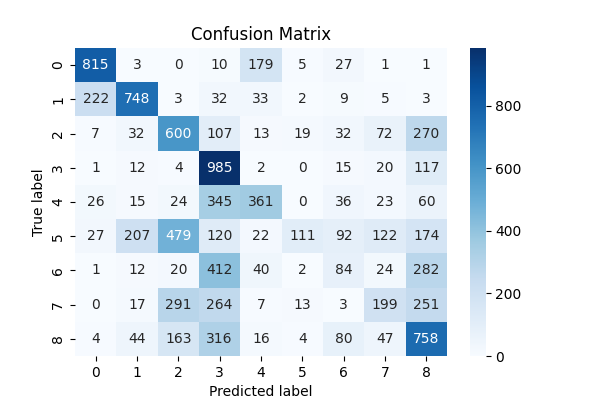
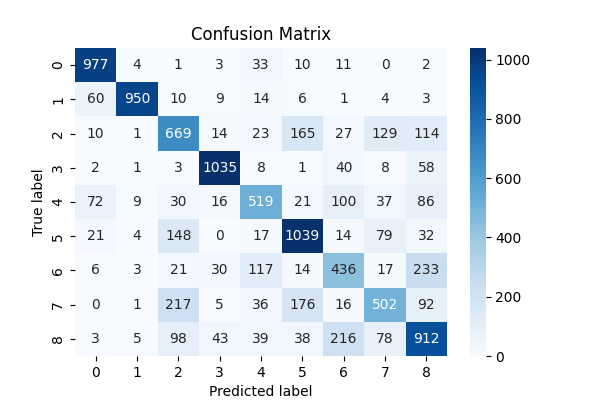
Updated helper function

diff --git a/A/task.py b/A/task.py
@@ -22,17 +22,17 @@ def pneumonia_task():
 
     # Using SVM with polynomial kernel
     degrees = range(1, 10)  # try degrees from 1 to 10
-    scores = hf.iterate_hyper(pneumonia,degrees,kernel_type= 'poly')
+    #scores = hf.iterate_hyper(pneumonia,degrees,kernel_type= 'poly')
 
     # Save plot evaluating the performance over different degrees
-    hf.plot_hyper_tuning(degrees,scores,"F1-Score over polynomial degree (SVM)","Degree",name="Polynomial degrees scores")
+    #hf.plot_hyper_tuning(degrees,scores,"F1-Score over polynomial degree (SVM)","Degree",name="Polynomial degrees scores")
 
     # Using SVM with RBF kernel
     c = [0.01, 0.1, 0.2, 0.3,0.5,0.8,1,2,20,100] # SVM regularization parameter
-    scores = hf.iterate_hyper(pneumonia,c,kernel_type= 'rbf')
+    #scores = hf.iterate_hyper(pneumonia,c,kernel_type= 'rbf')
 
     # Save plot evaluating the performance over different C values
-    hf.plot_hyper_tuning(c,scores,"F1-Score over RBF C parameter (SVM)","C",name="C Regularisation scores (SVM)",log=True)
+    #hf.plot_hyper_tuning(c,scores,"F1-Score over RBF C parameter (SVM)","C",name="C Regularisation scores (SVM)",log=True)
 
     # Train final models SVM one polynomial and another rbf
     svm_poly = hf.train_svm(pneumonia.x_train, pneumonia.y_train,degree = 3,kernel_type= 'poly',gamma='scale')
@@ -41,19 +41,28 @@ def pneumonia_task():
     # Compute ROC Curve for the best polynomial and rbf SVM to choose one
     models = [svm_poly,svm_rbf]
     labels = ["svm_poly","svm_rbf"]
+
     hf.models_roc(pneumonia.x_val,pneumonia.y_val,models,labels,name="ROC Curve SVM")
 
+    # Compute confusion matrix for poly SVM on validation set
+    print("Poly kernel on validation")
+    y_pred = svm_poly.predict(pneumonia.x_val)
+    y_real = pneumonia.y_val
+    hf.report_results(y_pred,y_real,"./A/figures/Poly confusion matrix validation set")
+
+
     # Compute confusion matrix for rbf SVM on validation set
+    print("RBF kernel on validation")
     y_pred = svm_rbf.predict(pneumonia.x_val)
     y_real = pneumonia.y_val
     hf.report_results(y_pred,y_real,"./A/figures/RBF confusion matrix validation set")
 
     # Using PCA with SVM rbf
     dimensions_list = range(1,15) #List of dimensions to try
-    scores = hf.PCA_SVM(pneumonia, dimensions_list) # score per dimension
+    #scores = hf.PCA_SVM(pneumonia, dimensions_list) # score per dimension
 
     # Save plot evaluating the performance over different PCA components
-    hf.plot_hyper_tuning(dimensions_list,scores,"F1-Score over diffent PCA-SVM","Components",name="PCA components scores (SVM)")
+    #hf.plot_hyper_tuning(dimensions_list,scores,"F1-Score over diffent PCA-SVM","Components",name="PCA components scores (SVM)")
 
     # Selecting only the first 9 components based on the past graph
     svm_pca,pca,scaler = hf.PCA_model(pneumonia,9)
@@ -110,6 +119,8 @@ def pneumonia_task():
 
     # Plot confusion matrix for all the models on test set
     main_label = "Confusion matrix "
+
+    print("Printing results")
 
     for index, model in enumerate(models):
         print(labels[index])

diff --git a/B/helper_functions.py b/B/helper_functions.py
@@ -31,6 +31,7 @@ def model_neural_network(params):
     # Define the model without batch normalization
     model = models.Sequential([
         layers.Flatten(input_shape=(28, 28, 3)),
+        layers.BatchNormalization(),
         layers.Dense(256, activation='relu'),
         layers.Dense(128, activation='relu'),
         layers.Dense(64, activation='relu'),
@@ -65,12 +66,15 @@ def model_nn_regularizer(dropout_value,params):
         layers.Flatten(input_shape=(28, 28, 3)),
         layers.BatchNormalization(),
         layers.Dense(256, activation='relu'),
+
         layers.BatchNormalization(),
         layers.Dropout(dropout_value),
         layers.Dense(128, activation='relu'),
+
         layers.BatchNormalization(),
         layers.Dropout(dropout_value),
         layers.Dense(64, activation='relu'),
+
         layers.BatchNormalization(),
         layers.Dropout(dropout_value),
         layers.Dense(9, activation='softmax')  # 9 output classes (0-8) with softmax
@@ -206,6 +210,9 @@ def plot_accuracy_epochs(history,name:str):
     # Save plot in the figures folder
     plt.savefig(f"{folder_path}/{name}.png")
 
+    # Explicitly close the figure
+    plt.close()
+
 
 def report_bar(y_pred,y_true,name:str):
 
@@ -234,7 +241,7 @@ def report_bar(y_pred,y_true,name:str):
     bar_container = plt.bar(report_df.index,report_df['F1 score']*100,edgecolor='black', color = sns.color_palette('pastel', 8))
 
     # Specify the classes
-    plt.xticks(range(0,9))
+    plt.xticks(range(0,9),fontweight='bold',fontsize=18)
 
     # Plot number of each bar
     plt.bar_label(bar_container, fmt='{:.2f}%',fontsize=12,fontweight='bold')
@@ -248,6 +255,9 @@ def report_bar(y_pred,y_true,name:str):
 
     # Save plot in the figures folder
     plt.savefig(f"{folder_path}/{name}.png")
+
+    # Explicitly close the figure
+    plt.close()
 
     return report_df
 
@@ -285,6 +295,9 @@ def report_multi_results(y_pred,y_real,labels,name:str):
 
     # Save plot in the figures folder
     plt.savefig(f"{folder_path}/{name}.png")
+    
+    # Explicitly close the figure
+    plt.close()
 
 def roc_multiclass(class_probabilities,true_labels,model_name,name):
 
@@ -324,4 +337,7 @@ def roc_multiclass(class_probabilities,true_labels,model_name,name):
 
     # Save plot in the figures folder
     plt.savefig(f"{folder_path}/{name}.png")
+
+    # Explicitly close the figure
+    plt.close()
 

diff --git a/A/helper_functions.py b/A/helper_functions.py
@@ -19,7 +19,10 @@ from sklearn.metrics import (
     classification_report,
     confusion_matrix,
     f1_score,
+    precision_score,
+    recall_score
 )
+
 
 
 class MNISTDataManager:
@@ -274,7 +277,7 @@ def models_roc(x_eval,y_eval,models:list,labels:list,name:str=""):
     ax.legend()
     ax.grid(True)
 
-    if name == "":
+    if name != "":
         # Define the path where you want to save the plot
         folder_path = "./A/figures"
 
@@ -296,7 +299,11 @@ def report_results(y_pred,y_real,path):
 
     # Calculate accuracy
     accuracy = f1_score(y_real, y_pred)
+    precision = precision_score(y_real, y_pred)
+    recall = recall_score(y_real, y_pred)
     print(f"F1-Score of the Classifier: {accuracy}")
+    print(f"precision of the Classifier: {precision}")
+    print(f"recall of the Classifier: {recall}")
 
     # Generate classification report
     report = classification_report(y_real, y_pred)
@@ -346,7 +353,7 @@ def PCA_model(dataset,dimension):
     # Fit PCA to the data
     pca.fit(x_train_scaled)
 
-    # Fit PCA on your data
+    # Transforms data to lower dimension
     x_train_pca = pca.transform(x_train_scaled)
 
     #print("Transformed shape:", x_train_pca.shape)
@@ -410,7 +417,7 @@ def tree_model(dataset):
         'criterion':'gini',
         'splitter':'best',
         'max_features': 100,
-        'max_depth': 10,
+        'max_depth': 15,
         'min_samples_split':50
 
     }
@@ -439,7 +446,7 @@ def random_forest_model(dataset):
     rf_params = {
         'n_estimators': 100,  # Number of trees in the forest
         'criterion': 'gini',  # Split criterion: 'gini' or 'entropy'
-        'max_depth': None,  # Maximum depth of the trees
+        'max_depth': 15,  # Maximum depth of the trees
         'min_samples_split': 2,  # Minimum samples required to split a node
         'min_samples_leaf': 1,  # Minimum samples required at each leaf node
         'max_features': 'sqrt',  # Number of features to consider for the best split

diff --git a/B/task.py b/B/task.py
@@ -1,9 +1,9 @@
 """ Executing task B"""
 
 import tensorflow as tf
+import numpy as np
 from B import helper_functions as hf
 from A.helper_functions import MNISTDataManager
-import numpy as np
 
 
 def multiclass_task():
@@ -61,6 +61,8 @@ def multiclass_task():
 
     # Plot Report regularized NN
     hf.report_multi_results(y_pred,pathmnist.y_val,class_labels,"Confusion matrix regularized nn")
+
+    print("Training CNN")
 
     # Create instance of the simple CNN
     historic_cnn,model_cnn = hf.model_cnn_simple(params)

diff --git a/main.py b/main.py
@@ -7,7 +7,10 @@ def main():
     """ 
         Call the code from different tasks
     """
-    #task_A.pneumonia_task()
+    print("RUNNING TASK A")
+    task_A.pneumonia_task()
+
+    print("RUNNING TASK B")
     task_B.multiclass_task()
 
 if __name__ == "__main__":

diff --git a/README.md b/README.md
@@ -1,1 +1,8 @@
 # AML-Project
+
+## Installation
+
+Run conda env create -f environment.yml && conda activate daps-hackathon && python main.py
+this will create the environment and install the required libraries
+
+## Structure 
